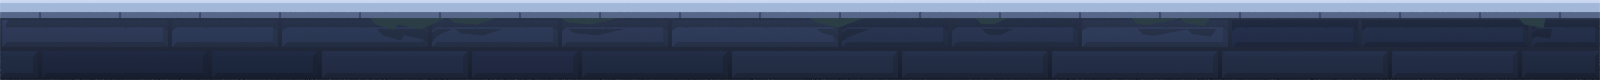
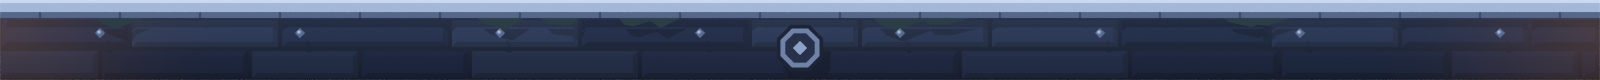
Arena básica: lanternas iluminando o portal, vilas ao longe, estandartes, bambu e detalhes no chão
Claude-Session: https://claude.ai/code/session_01Pima1WMrNcFskGUdGv7yF5

diff --git a/ferramentas/arte/cenarios/arena-basica.py b/ferramentas/arte/cenarios/arena-basica.py
@@ -30,11 +30,9 @@ c.tom_do_recorte = (0.45, 0.5, 0.9)
 s = c.sorteio
 
 
-def halo(nome, x, y, raio, hexa, forca, profundidade, aneis=5):
-    """Brilho suave: vários discos transparentes, um dentro do outro."""
-    for i in range(aneis):
-        t = (i + 1) / aneis
-        c.disco(f"{nome}_halo{i}", x, y, raio * t, c.brilho(hexa, alfa=forca / aneis), lados=28, profundidade=profundidade - i * 0.2)
+def halo(nome, x, y, raio, hexa, forca, profundidade, queda=2.0, achatar=1.0):
+    """Brilho suave em volta de um ponto, sumindo aos poucos até `raio`."""
+    c.halo(f"{nome}_halo", x, y, raio, hexa, forca, profundidade, queda, achatar)
 
 
 # ---------------------------------------------------------------------------- céu (1600×900)
@@ -48,6 +46,7 @@ c.retangulo(
     c.degrade([(0.0, "#060913"), (0.4, "#121830"), (0.72, "#232748"), (1.0, "#3a3457")], 0, 900),
     profundidade=900,
 )
+halo("horizonte", 800, 930, 1200, "#51457a", 0.55, 895, queda=1.6, achatar=2.4)
 # Faixa de estrelas miúdas atravessando o alto do céu, e algumas maiores, de quatro pontas.
 for i in range(150):
     x = s.uniform(0, 1600)
@@ -61,7 +60,8 @@ for i, (x, y, r) in enumerate(((118, 96, 7), (402, 58, 5), (688, 132, 6), (964, 
     c.placa(f"estrela_g{i}", [(x - r, y), (x - r * 0.22, y - r * 0.22), (x, y - r), (x + r * 0.22, y - r * 0.22), (x + r, y), (x + r * 0.22, y + r * 0.22), (x, y + r), (x - r * 0.22, y + r * 0.22)], c.brilho(tom), profundidade=879)
 # Lua: à direita, emoldurada pelo portal, acima de onde se luta. Clara, mas sem estourar.
 LUA = (1105, 296)
-halo("lua", *LUA, 230, "#8f9bd0", 0.16, 872, aneis=8)
+halo("lua", *LUA, 330, "#8f9bd0", 0.5, 872, queda=2.6)
+halo("lua_perto", *LUA, 130, "#aab4e0", 0.35, 871, queda=1.6)
 c.disco("lua", *LUA, 84, c.brilho("#838fb8"), lados=16, profundidade=866, giro=0.2)
 c.disco("lua_luz", LUA[0] - 10, LUA[1] - 10, 68, c.brilho("#8c98c0"), lados=14, profundidade=865, giro=0.5)
 for i, (dx, dy, r) in enumerate(((-30, -22, 22), (26, 18, 15), (-12, 38, 11), (36, -34, 9), (4, -50, 7), (-52, 14, 8))):
@@ -93,6 +93,18 @@ for i, (x, y, l, a, tom) in enumerate(
             (x - ll * 0.36, yy + aa * 0.45),
         ]
         c.placa(f"nuvem{i}_{parte}", pontos, c.brilho(misturar(tom, "#4a4f80", clareia)), profundidade=860 - i - parte * 0.5)
+        if parte == 0:
+            # A borda de cima pega a luz da lua: mais forte quanto mais perto dela.
+            perto_da_lua = max(0.0, 1 - math.hypot(x - LUA[0], y - LUA[1]) / 900)
+            c.fita(f"nuvem{i}_borda", pontos[1:5], [1.0, 3.0, 2.4, 1.0], c.brilho(misturar(tom, "#8088c0", 0.25 + 0.5 * perto_da_lua)), profundidade=859.6 - i)
+# Uma nuvem fina passando na frente da lua, e uma estrela cadente no canto.
+for i, (dx, dy, l, a, tom) in enumerate(((40, 54, 360, 11, "#2a2f58"), (-90, 72, 220, 7, "#30355f"))):
+    x, y = LUA[0] + dx, LUA[1] + dy
+    pontos = [(x - l / 2, y), (x - l * 0.28, y - a * 0.8), (x + l * 0.05, y - a), (x + l * 0.3, y - a * 0.5), (x + l / 2, y), (x + l * 0.3, y + a * 0.6), (x - l * 0.2, y + a * 0.7)]
+    c.placa(f"nuvem_lua{i}", pontos, c.brilho(tom), profundidade=850 - i)
+    c.fita(f"nuvem_lua{i}_borda", pontos[1:4], [1.0, 2.6, 1.0], c.brilho("#7c86be"), profundidade=849.5 - i)
+c.fita("cadente", [(505, 168), (560, 146), (604, 128)], [0.4, 1.6, 3.0], c.brilho("#b9c4ea"), profundidade=878)
+c.disco("cadente_ponta", 606, 127, 2.6, c.brilho("#e6ecff"), lados=6, profundidade=877)
 
 # -------------------------------------------------------------------------- longe (2000×900)
 c.camada("longe", 2000, 900)
@@ -138,6 +150,23 @@ for andar in range(3):
     c.retangulo(f"pagode_corpo{andar}", px - largura * 0.52, y, px + largura * 0.52, y + 24, PAGODE, profundidade=-900)
     c.retangulo(f"pagode_luz{andar}", px - 3, y + 8, px + 3, y + 17, c.brilho("#b98a4a"), profundidade=-901)
 c.placa("pagode_ponta", [(px - 3, py - 79), (px, py - 118), (px + 3, py - 79)], PAGODE, profundidade=-900)
+# Mata na beira do vale: fileira de pinheirinhos em silhueta, mais densa nas pontas.
+MATA = c.brilho("#0d101e")
+x = -10.0
+while x < 2010:
+    centro = abs(x - 1000) / 1000
+    altura = s.uniform(14, 30) + 22 * centro * s.random()
+    c.placa(f"mata{int(x)}", [(x - altura * 0.3, HORIZONTE + 14), (x, HORIZONTE + 14 - altura), (x + altura * 0.3, HORIZONTE + 14)], MATA, profundidade=-940)
+    x += s.uniform(9, 22)
+# Duas vilas ao pé da serra: pontinhos de luz quente, bem longe.
+for nome, cx, cy, n in (("vila_d", 1560, 628, 16), ("vila_e", 560, 636, 9)):
+    halo(nome, cx, cy, 120, "#c98a4a", 0.2, -930, queda=2.0, achatar=2.6)
+    for i in range(n):
+        vx, vy = cx + s.gauss(0, 46), cy + s.uniform(-10, 8)
+        c.retangulo(f"{nome}_luz{i}", vx - 1.4, vy - 1.6, vx + 1.4, vy + 1.6, c.brilho(misturar("#b9803f", "#f0c070", s.random())), profundidade=-941)
+# Tufos de névoa deitados no vale.
+for i, (nx, ny, nr) in enumerate(((300, 640, 420), (1050, 652, 520), (1720, 636, 440), (760, 600, 300))):
+    halo(f"tufo{i}", nx, ny, nr, "#3a4070", 0.32, -945 - i, queda=1.8, achatar=7.0)
 # Chão distante: fecha a camada até embaixo, escurecendo.
 c.retangulo("base_longe", -10, HORIZONTE, 2010, 910, c.degrade([(0, "#141728"), (1, "#0e1222")], HORIZONTE, 900), profundidade=-950)
 
@@ -156,6 +185,13 @@ COPA = c.mat("#111a26", ambiente=0.55, luz=0.5)
 COPA_FUNDO = c.mat("#0e1522", ambiente=0.6, luz=0.3)
 FLOR = c.mat("#4a2a42", ambiente=0.5, luz=0.5, base=0.6)  # cerejeira à noite: rosa bem fechado
 FLOR_CLARA = c.mat("#59324e", ambiente=0.5, luz=0.55, base=0.65)
+FLOR_LUZ = c.mat("#7a4868", ambiente=0.5, luz=0.6, base=0.8)
+BAMBU = c.mat("#1c2b2a", ambiente=0.5, luz=0.55, base=0.75)
+BAMBU_NO = c.mat("#121c1c", ambiente=0.5, luz=0.4, base=1.0)
+PALHA = c.mat("#4a3d30", ambiente=0.45, luz=0.5, base=0.7)
+TECIDO = c.mat("#2a2440", ambiente=0.5, luz=0.5, base=0.7)
+TECIDO_CLARO = c.mat("#8a7fa0", ambiente=0.5, luz=0.5, base=0.9)
+CAIBRO = c.mat("#3b2a30", ambiente=0.5, luz=0.55, base=1.0)
 TRONCO = c.brilho("#0b0e18")
 GALHO = c.mat("#1a1420", ambiente=0.5, luz=0.4, base=1.0)
 LUZ = c.brilho("#ffcf73")
@@ -178,6 +214,9 @@ def cerejeira(nome, x, altura, profundidade=0.0, lado=1):
     for i, (fx, fy) in enumerate(copas + [(topo[0] - a * 0.12, topo[1] - a * 0.2), (topo[0] + a * 0.16, topo[1] - a * 0.3)]):
         r = a * s.uniform(0.17, 0.23)
         c.bolha(f"{nome}_copa{i}", fx, fy, r * 1.25, r * 0.85, FLOR if i % 2 else FLOR_CLARA, profundidade - 30 - i * 6, detalhe=2)
+        # cachos de flor mais claros, do lado que pega a lua
+        for k in range(5):
+            c.bolha(f"{nome}_cacho{i}_{k}", fx + s.uniform(-0.9, 0.7) * r, fy + s.uniform(-0.7, 0.2) * r, r * s.uniform(0.2, 0.3), r * s.uniform(0.15, 0.22), FLOR_LUZ, profundidade - 70 - i * 6, torto=0.25)
 
 
 # Pinheiros nas bordas, atrás de tudo. No meio (atrás da luta) não há árvore.
@@ -214,7 +253,8 @@ for j, x0 in enumerate((CASA - 136, CASA - 52)):
         c.retangulo(f"dojo_grade_v{j}_{i}", x0 + i * 20 - 1.5, 520, x0 + i * 20 + 1.5, 660, TRONCO, profundidade=-12)
     for i in range(1, 4):
         c.retangulo(f"dojo_grade_h{j}_{i}", x0, 520 + i * 35 - 1.5, x0 + 60, 520 + i * 35 + 1.5, TRONCO, profundidade=-12)
-halo("dojo", CASA - 76, 590, 120, "#ffb060", 0.08, -13, aneis=5)
+halo("dojo", CASA - 76, 590, 170, "#ffb060", 0.3, -13)
+c.lampada("dojo_luz", CASA - 76, 600, -110, "#ffb060", forca=1.3, raio=170)
 c.telhado_curvo("dojo_telhado", CASA - 270, CASA + 360, 480, 376, TELHA, TELHA_ESCURA, avanco=90, levanta=30, trechos=12, recuo=0.22, costelas=18)
 c.caixa("dojo_cumeeira", CASA - 136, 364, CASA + 226, 380, TELHA_ESCURA, frente=-8, fundo=8, chanfro=3)
 c.caixa("dojo_varanda", CASA - 200, PATIO - 22, CASA + 260, PATIO + 6, MADEIRA, frente=-60, fundo=-10, chanfro=4)
@@ -251,12 +291,32 @@ for i in range(len(VIGA_ALTA) - 1):
     )
 c.telhado_curvo("portal_telhado", COL_E - 214, COL_D + 214, 190, 138, TELHA, TELHA_ESCURA, avanco=70, levanta=34, trechos=16, recuo=0.05, costelas=40)
 c.caixa("portal_cumeeira", COL_E - 150, 128, COL_D + 150, 142, TELHA_ESCURA, frente=-10, fundo=10, chanfro=3)
+for nome, x, lado in (("e", COL_E - 150, -1), ("d", COL_D + 150, 1)):
+    c.placa(f"portal_cumeeira_ponta_{nome}", [(x, 126), (x + lado * 30, 118), (x + lado * 22, 142), (x, 144)], TELHA_ESCURA, profundidade=-12)
+# Caibros: a fileira de pontas de madeira sob o beiral, acompanhando a curva do telhado.
+X0_TELHADO, X1_TELHADO = COL_E - 214, COL_D + 214
+x = X0_TELHADO + 30
+while x < X1_TELHADO - 20:
+    t = (x - X0_TELHADO) / (X1_TELHADO - X0_TELHADO)
+    y = 190 - 34 * ((2 * t - 1) ** 2) ** 1.5 + 9
+    c.caixa(f"portal_caibro{int(x)}", x - 6, y, x + 6, y + 11, CAIBRO, frente=-76, fundo=-50, chanfro=2)
+    x += 34
+for nome, x, lado in (("e", X0_TELHADO, -1), ("d", X1_TELHADO, 1)):
+    c.placa(f"portal_ponta_{nome}", [(x - lado * 30, 160), (x + lado * 4, 152), (x + lado * 22, 124), (x + lado * 2, 166)], TELHA_ESCURA, profundidade=-72)
+# Corda grossa trançada na viga de baixo, com três borlas: detalhe de santuário, sem símbolo nenhum.
+CORDA = c.mat("#6a5a40", ambiente=0.5, luz=0.5, base=0.8)
+pontos_da_corda = [(COL_E + 150 + (COL_D - COL_E - 300) * i / 24, 300 + 10 * math.sin(math.pi * i / 24)) for i in range(25)]
+c.fita("portal_corda", pontos_da_corda, [5 + 5 * math.sin(math.pi * i / 24) for i in range(25)], CORDA, profundidade=-38)
+for i in (6, 12, 18):
+    bx, by = pontos_da_corda[i]
+    c.placa(f"portal_borla{i}", [(bx - 4, by + 3), (bx + 4, by + 3), (bx + 6, by + 26), (bx, by + 32), (bx - 6, by + 26)], CORDA, profundidade=-39)
 
 # Lanternas de papel penduradas na viga, junto das colunas: o único brilho quente perto da luta,
 # e fica nas pontas.
 for nome, x in (("e", COL_E + 84), ("d", COL_D - 84)):
     c.retangulo(f"lanterna_fio_{nome}", x - 1.5, 296, x + 1.5, 326, TRONCO, profundidade=-20)
-    halo(f"lanterna_{nome}", x, 350, 74, "#ffbe66", 0.16, -52, aneis=6)
+    halo(f"lanterna_{nome}", x, 350, 96, "#ffbe66", 0.5, -52, queda=2.2)
+    c.lampada(f"lanterna_luz_{nome}", x, 352, -110, "#ffb45a", forca=1.35, raio=130)
     corpo = [(x - 9, 328), (x + 9, 328), (x + 16, 338), (x + 16, 362), (x + 9, 372), (x - 9, 372), (x - 16, 362), (x - 16, 338)]
     c.placa(f"lanterna_{nome}", corpo, LUZ, profundidade=-56)
     c.placa(f"lanterna_miolo_{nome}", [(x - 5, 334), (x + 5, 334), (x + 9, 342), (x + 9, 358), (x + 5, 366), (x - 5, 366), (x - 9, 358), (x - 9, 342)], c.brilho("#ffe6a8"), profundidade=-57)
@@ -273,7 +333,8 @@ def lanterna_de_pedra(nome, x, escala=1.0):
     c.caixa(f"{nome}_base", x - 28 * e, y - 14 * e, x + 28 * e, y, PEDRA, frente=-74, fundo=-26, chanfro=5 * e)
     c.cilindro(f"{nome}_haste", x, y - 92 * e, y - 14 * e, 8 * e, 11 * e, PEDRA, lados=6, profundidade=-50)
     c.caixa(f"{nome}_mesa", x - 25 * e, y - 104 * e, x + 25 * e, y - 92 * e, PEDRA, frente=-72, fundo=-28, chanfro=4 * e)
-    halo(nome, x, y - 124 * e, 58 * e, "#ffb85c", 0.1, -72, aneis=6)
+    halo(nome, x, y - 124 * e, 84 * e, "#ffb85c", 0.42, -72, queda=2.2)
+    c.lampada(f"{nome}_luz", x, y - 124 * e, -120, "#ffb45a", forca=1.4, raio=120)
     c.caixa(f"{nome}_caixa", x - 18 * e, y - 144 * e, x + 18 * e, y - 104 * e, PEDRA_ESCURA, frente=-66, fundo=-34, chanfro=2 * e)
     c.retangulo(f"{nome}_fogo", x - 11 * e, y - 138 * e, x + 11 * e, y - 110 * e, LUZ_FRACA, profundidade=-74)
     c.retangulo(f"{nome}_fogo_miolo", x - 6 * e, y - 130 * e, x + 6 * e, y - 112 * e, c.brilho("#ffd98a"), profundidade=-74.5)
@@ -294,6 +355,43 @@ for i, (x, r) in enumerate(((560, 34), (640, 24), (1770, 28), (1820, 20), (300, 
     c.bolha(f"arbusto{i}", x, PATIO - r * 0.5, r * 1.5, r, COPA, -60, torto=0.22)
 for i, (x, r) in enumerate(((610, 13), (1745, 16), (2010, 12), (410, 10))):
     c.bolha(f"pedra{i}", x, PATIO + 2, r * 1.4, r, PEDRA, -84, torto=0.2)
+
+# Bambuzal atrás dos estandartes.
+for nome, x0, lado in (("e", 548, 1), ("d", 1852, -1)):
+    for i in range(8):
+        x = x0 + lado * (i * 9 + s.uniform(-3, 3))
+        topo = s.uniform(300, 430)
+        inclina = lado * s.uniform(-6, 22)
+        c.fita(f"bambu_{nome}{i}", [(x, PATIO + 6), (x + inclina * 0.4, (PATIO + topo) / 2), (x + inclina, topo)], [6.0, 5.0, 3.5], BAMBU, profundidade=8 - i)
+        for k in range(1, 7):
+            t = k / 7
+            c.retangulo(f"bambu_no_{nome}{i}_{k}", x + inclina * t * t - 3.5, PATIO + 6 + (topo - PATIO - 6) * t - 1, x + inclina * t * t + 3.5, PATIO + 6 + (topo - PATIO - 6) * t + 1, BAMBU_NO, profundidade=7 - i)
+        for k in range(4):
+            fx, fy = x + inclina + s.uniform(-6, 6), topo + s.uniform(0, 60)
+            giro = lado * s.uniform(0.2, 1.0)
+            c.placa(f"bambu_folha_{nome}{i}_{k}", [(fx, fy), (fx + 22 * math.cos(giro), fy + 9 * math.sin(giro) - 4), (fx + 34 * math.cos(giro), fy + 16)], BAMBU, profundidade=6 - i)
+
+# Estandartes do dojo: pano escuro com um círculo claro (emblema inventado, sem letra nenhuma).
+for nome, x, lado in (("e", 604, 1), ("d", 1796, -1)):
+    c.fita(f"estandarte_mastro_{nome}", [(x, PATIO + 6), (x, 318)], 5, TRONCO, profundidade=-30)
+    c.retangulo(f"estandarte_travessa_{nome}", min(x - lado * 4, x + lado * 48), 334, max(x - lado * 4, x + lado * 48), 339, TRONCO, profundidade=-31)
+    xa, xb = sorted((x + lado * 8, x + lado * 44))
+    meio = (xa + xb) / 2
+    c.placa(f"estandarte_pano_{nome}", [(xa, 339), (xb, 339), (xb + 2, 500), (meio, 524), (xa - 2, 500)], TECIDO, profundidade=-32)
+    c.disco(f"estandarte_emblema_{nome}", meio, 392, 11, TECIDO_CLARO, lados=16, profundidade=-33)
+    c.disco(f"estandarte_emblema_miolo_{nome}", meio, 392, 6, TECIDO, lados=12, profundidade=-34)
+    for dy in (352, 476):
+        c.retangulo(f"estandarte_listra_{nome}{dy}", xa + 3, dy, xb - 3, dy + 3, TECIDO_CLARO, profundidade=-33)
+
+# Bonecos de treino de palha, apagados, depois das pontas do chão da luta.
+for nome, x in (("e", 664), ("d", 1736)):
+    y = PATIO + 6
+    c.cilindro(f"boneco_poste_{nome}", x, y - 150, y, 7, 9, MADEIRA_ESCURA, lados=6, profundidade=-40)
+    c.cilindro(f"boneco_corpo_{nome}", x, y - 142, y - 70, 19, 16, PALHA, lados=8, profundidade=-40)
+    c.caixa(f"boneco_bracos_{nome}", x - 44, y - 128, x + 44, y - 117, MADEIRA_ESCURA, frente=-62, fundo=-50, chanfro=2)
+    c.bolha(f"boneco_cabeca_{nome}", x, y - 160, 15, 15, PALHA, -40, torto=0.06)
+    for dy in (132, 108, 84):
+        c.retangulo(f"boneco_corda_{nome}{dy}", x - 19, y - dy - 2, x + 19, y - dy + 2, TRONCO, profundidade=-60)
 
 # Pinheiros da frente, só nas pontas.
 for i, (x, altura) in enumerate(((95, 310), (2330, 300))):
@@ -319,6 +417,15 @@ c.retangulo(
     c.degrade([(0, "#2c3158"), (1, "#2c3158")], 560, 820, alfas=[(0.0, 0.0), (0.55, 0.3), (1.0, 0.0)]),
     profundidade=-120,
 )
+
+for i, (nx, ny, nr) in enumerate(((260, 742, 460), (2120, 746, 480), (1200, 770, 620), (760, 720, 300), (1660, 716, 300))):
+    halo(f"tufo_patio{i}", nx, ny, nr, "#3b4274", 0.3, -125 - i, queda=1.8, achatar=7.5)
+# Vaga-lumes, só perto das pontas.
+for i in range(9):
+    vx = s.uniform(60, 560) if i % 2 else s.uniform(1840, 2340)
+    vy = s.uniform(470, 700)
+    halo(f"vagalume{i}", vx, vy, 11, "#c9dc8a", 0.3, -130)
+    c.disco(f"vagalume_ponto{i}", vx, vy, 1.5, c.brilho("#dbe8a8"), lados=6, profundidade=-131)
 
 # --------------------------------------------------------------------------- chão (1600×80)
 chao = ARENA["chao"]
@@ -351,6 +458,20 @@ for i in range(9):
     x = s.uniform(20, LARGURA_DO_CHAO - 60)
     c.placa(f"musgo{i}", [(x, 18), (x + s.uniform(26, 60), 18), (x + s.uniform(14, 30), 18 + s.uniform(6, 13)), (x + 6, 18 + s.uniform(3, 7))], c.brilho("#2b3d45"), profundidade=-22)
 
+# Medalhão entalhado no meio e tachas de pedra ao longo da primeira fiada.
+MEIO = LARGURA_DO_CHAO / 2
+c.disco("medalhao_fundo", MEIO, 48, 25, c.brilho("#1c2436"), lados=8, profundidade=-24, giro=math.pi / 8)
+c.disco("medalhao_aro", MEIO, 48, 21, c.brilho("#6f82a8"), lados=8, profundidade=-25, giro=math.pi / 8)
+c.disco("medalhao_miolo", MEIO, 48, 16, c.brilho("#27324a"), lados=8, profundidade=-26, giro=math.pi / 8)
+c.disco("medalhao_centro", MEIO, 48, 7, c.brilho("#8fa3c8"), lados=4, profundidade=-27)
+for x in range(100, LARGURA_DO_CHAO, 200):
+    if abs(x - MEIO) > 60:
+        c.disco(f"tacha{x}", x, 33, 5, c.brilho("#5a6c90"), lados=4, profundidade=-24)
+        c.disco(f"tacha_luz{x}", x - 1, 32, 2.2, c.brilho("#9db3d6"), lados=4, profundidade=-25)
+# As pontas do chão pegam um pouco da luz quente das lanternas.
+for nome, x in (("e", 0), ("d", LARGURA_DO_CHAO)):
+    c.halo(f"chao_calor_{nome}", x, 34, 240, "#ffb45a", 0.05, -12, queda=2.0, achatar=1.6)
+
 # --------------------------------------------------------------------- plataforma (380×40)
 c.camada("plataforma", 380, 40)
 # A metade de cima é a tábua (10 unidades do mundo); a de baixo, a sombra dela, quase sumindo.
@@ -363,6 +484,11 @@ for x in (95, 190, 285):
 for x0, x1 in ((0, 10), (370, 380)):
     c.retangulo(f"tabua_ponta{x0}", x0, 0, x1, 20, c.brilho("#8b6a3c"), profundidade=-7)
     c.retangulo(f"tabua_ponta_luz{x0}", x0, 0, x1, 3, c.brilho("#c9a469"), profundidade=-8)
+for x in (30, 350):
+    c.retangulo(f"tabua_corda{x}", x - 5, 6, x + 5, 20, c.brilho("#6a5a40"), profundidade=-9)
+    for dy in (9, 13, 17):
+        c.retangulo(f"tabua_corda_risco{x}_{dy}", x - 5, dy, x + 5, dy + 1, c.brilho("#3d3324"), profundidade=-10)
+c.retangulo("tabua_veio", 44, 11, 336, 12, c.brilho("#465678"), profundidade=-5)
 c.retangulo("tabua_sombra", 6, 20, 374, 40, c.degrade([(0, "#05070d"), (1, "#05070d")], 20, 40, alfas=[(0.0, 0.42), (1.0, 0.0)]), profundidade=0)
 
 # ------------------------------------------------------------------------- frente (2400×900)
@@ -370,6 +496,12 @@ c.camada("frente", 2400, 900)
 SOMBRA = c.brilho("#07090f")
 FLOR_FRENTE = c.mat("#3d2236", ambiente=0.5, luz=0.5, base=0.6)
 FLOR_FRENTE_CLARA = c.mat("#4b2a42", ambiente=0.5, luz=0.5, base=0.65)
+FLOR_FRENTE_LUZ = c.mat("#6a3d5a", ambiente=0.5, luz=0.55, base=0.8)
+for i in range(6):
+    vx = s.uniform(40, 460) if i % 2 else s.uniform(1940, 2360)
+    vy = s.uniform(330, 720)
+    halo(f"frente_vagalume{i}", vx, vy, 15, "#c9dc8a", 0.32, -140)
+    c.disco(f"frente_vagalume_ponto{i}", vx, vy, 2.0, c.brilho("#dbe8a8"), lados=6, profundidade=-141)
 # Galhos de cerejeira entrando pelos cantos de cima, bem escuros, longe do centro.
 for nome, lado, x0 in (("e", 1, 0), ("d", -1, 2400)):
     galhos = (((0, 40), (330, 150)), ((0, 150), (230, 250)), ((150, 100), (300, 60)), ((240, 124), (430, 190)))
@@ -379,6 +511,8 @@ for nome, lado, x0 in (("e", 1, 0), ("d", -1, 2400)):
         c.placa(f"frente_galho_{nome}{i}", [(ax, ay - g), (ax, ay + g), (bx, by + g * 0.3), (bx, by - g * 0.3)], SOMBRA, profundidade=-i)
     for i, (dx, dy, r) in enumerate(((60, 40, 80), (200, 70, 70), (330, 150, 60), (120, 170, 60), (230, 250, 48), (300, 56, 50), (430, 190, 40), (20, 110, 70))):
         c.bolha(f"frente_copa_{nome}{i}", x0 + lado * dx, dy, r * 1.25, r * 0.8, FLOR_FRENTE if i % 3 else FLOR_FRENTE_CLARA, -40 - i * 5, detalhe=2)
+        for k in range(4):
+            c.bolha(f"frente_cacho_{nome}{i}_{k}", x0 + lado * dx + s.uniform(-0.9, 0.9) * r, dy + s.uniform(-0.5, 0.5) * r, r * s.uniform(0.16, 0.26), r * s.uniform(0.12, 0.2), FLOR_FRENTE_LUZ, -120 - i * 5, torto=0.25)
 # Pétalas caindo, só perto das bordas.
 for i in range(34):
     lado = i % 2

diff --git a/arte/LEIA-ME.md b/arte/LEIA-ME.md
@@ -100,10 +100,12 @@ python3 ferramentas/arte/rodar_blender.py ferramentas/arte/cenarios/arena-basica
   brilho quente só nas bordas. Nada no fundo tem linha clara na altura do chão.
 - **Reproduzível:** Cycles na CPU, semente fixa, sem denoise, só luz direta (sem ruído), sem
   pontilhado e sem data gravada no arquivo. Rodar duas vezes dá os mesmos arquivos, byte a byte.
-- **Luz:** as mesmas duas direções dos personagens (`render_sprites.py`).
+- **Luz:** as mesmas duas direções dos personagens (`render_sprites.py`). Lanternas e janelas usam
+  `lampada()`: a luz é calculada dentro dos materiais da camada (distância e ângulo), sem luz do
+  Blender, para não haver ruído. Brilhos suaves (lua, lanternas, névoa) usam `halo()`.
 - **Peso:** no máximo 1,5 MB por arena.
 
-Estado: `arena-basica` (pátio de dojo à noite) renderizada, 1,0 MB, aguardando a aprovação do André.
+Estado: `arena-basica` (pátio de dojo à noite) renderizada, 1,4 MB, aguardando a aprovação do André.
 **O jogo ainda não carrega essas imagens**: `desenharFundo` e `desenharArena` continuam desenhando
 por código. A troca por camadas com paralaxe é o próximo passo, só em `src/render`.
 
